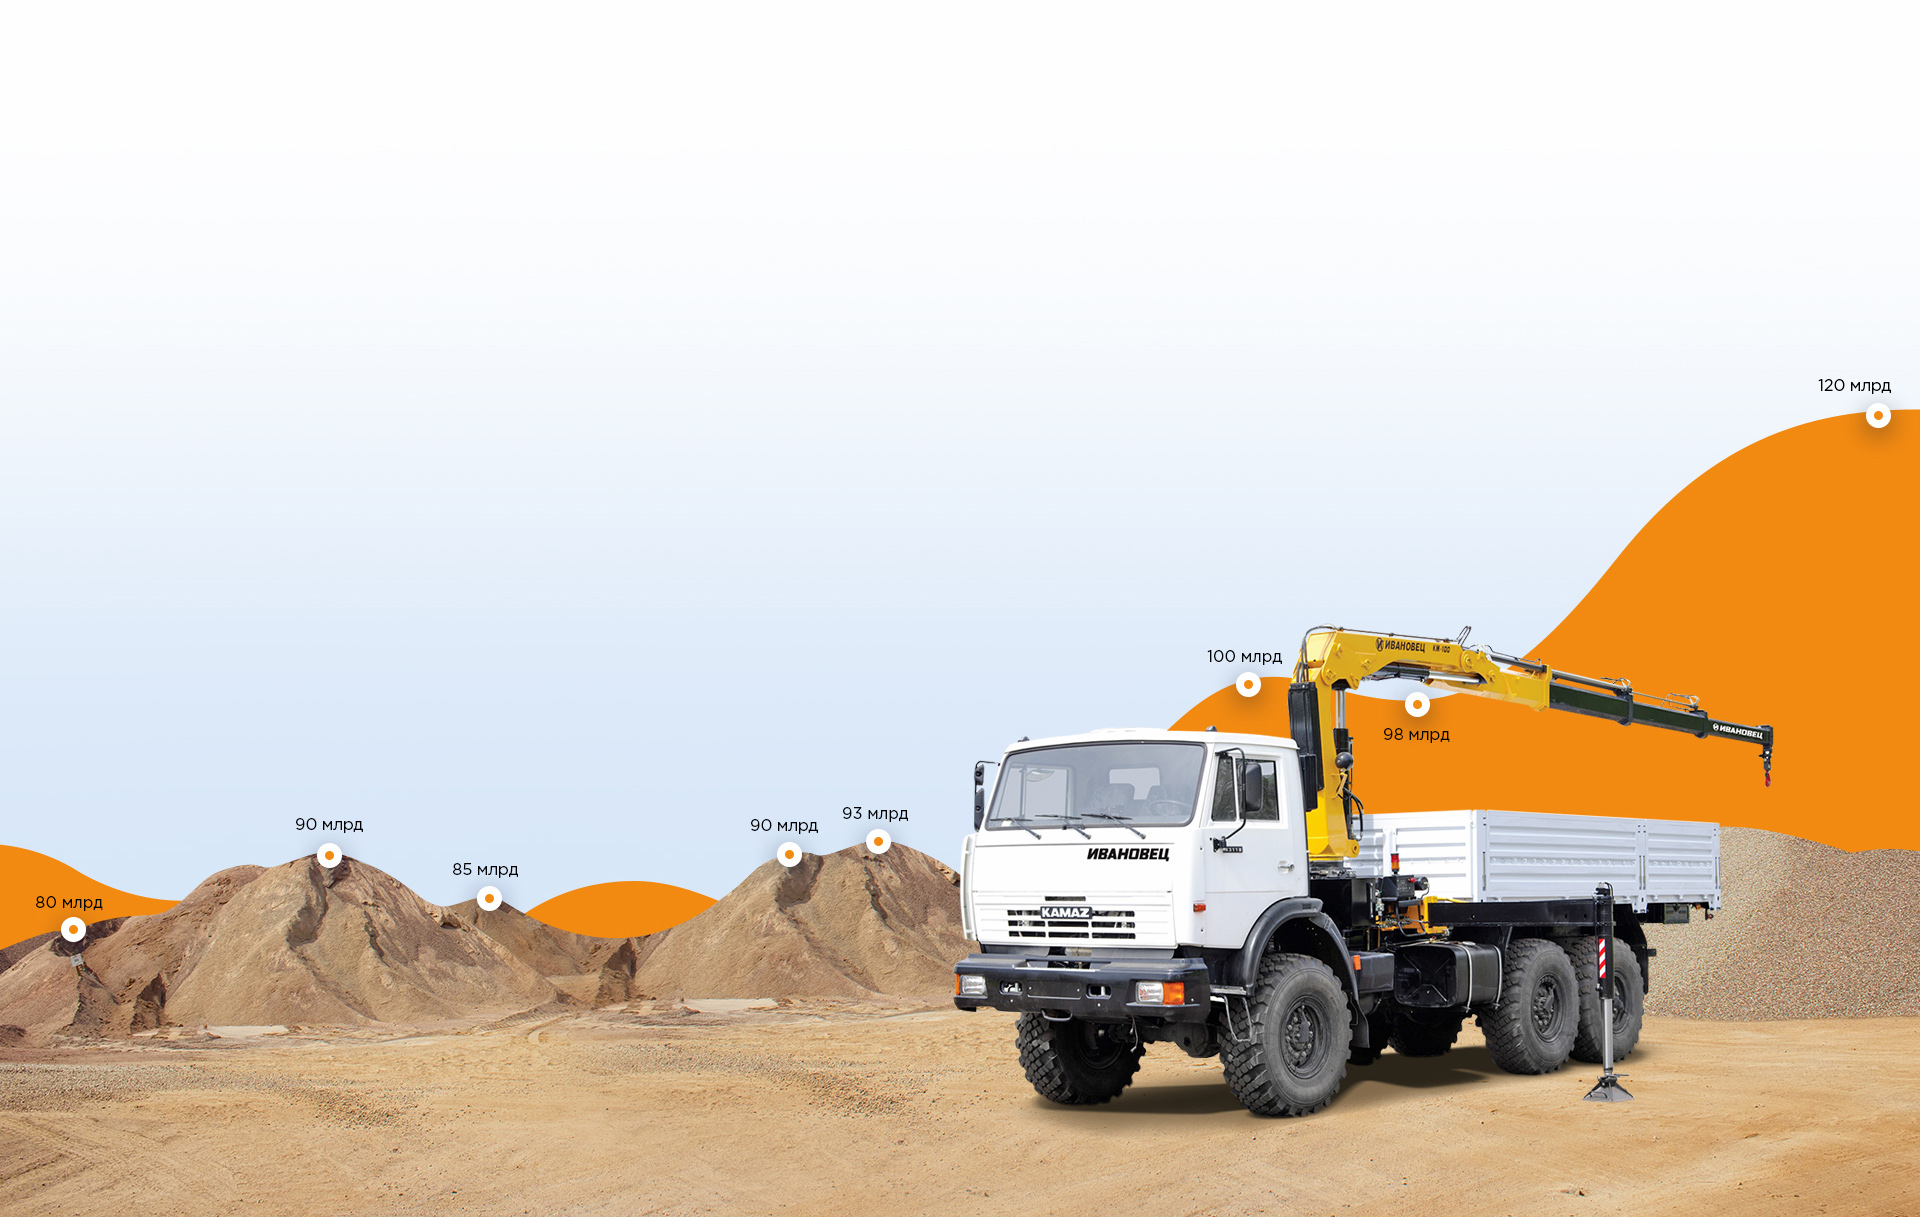
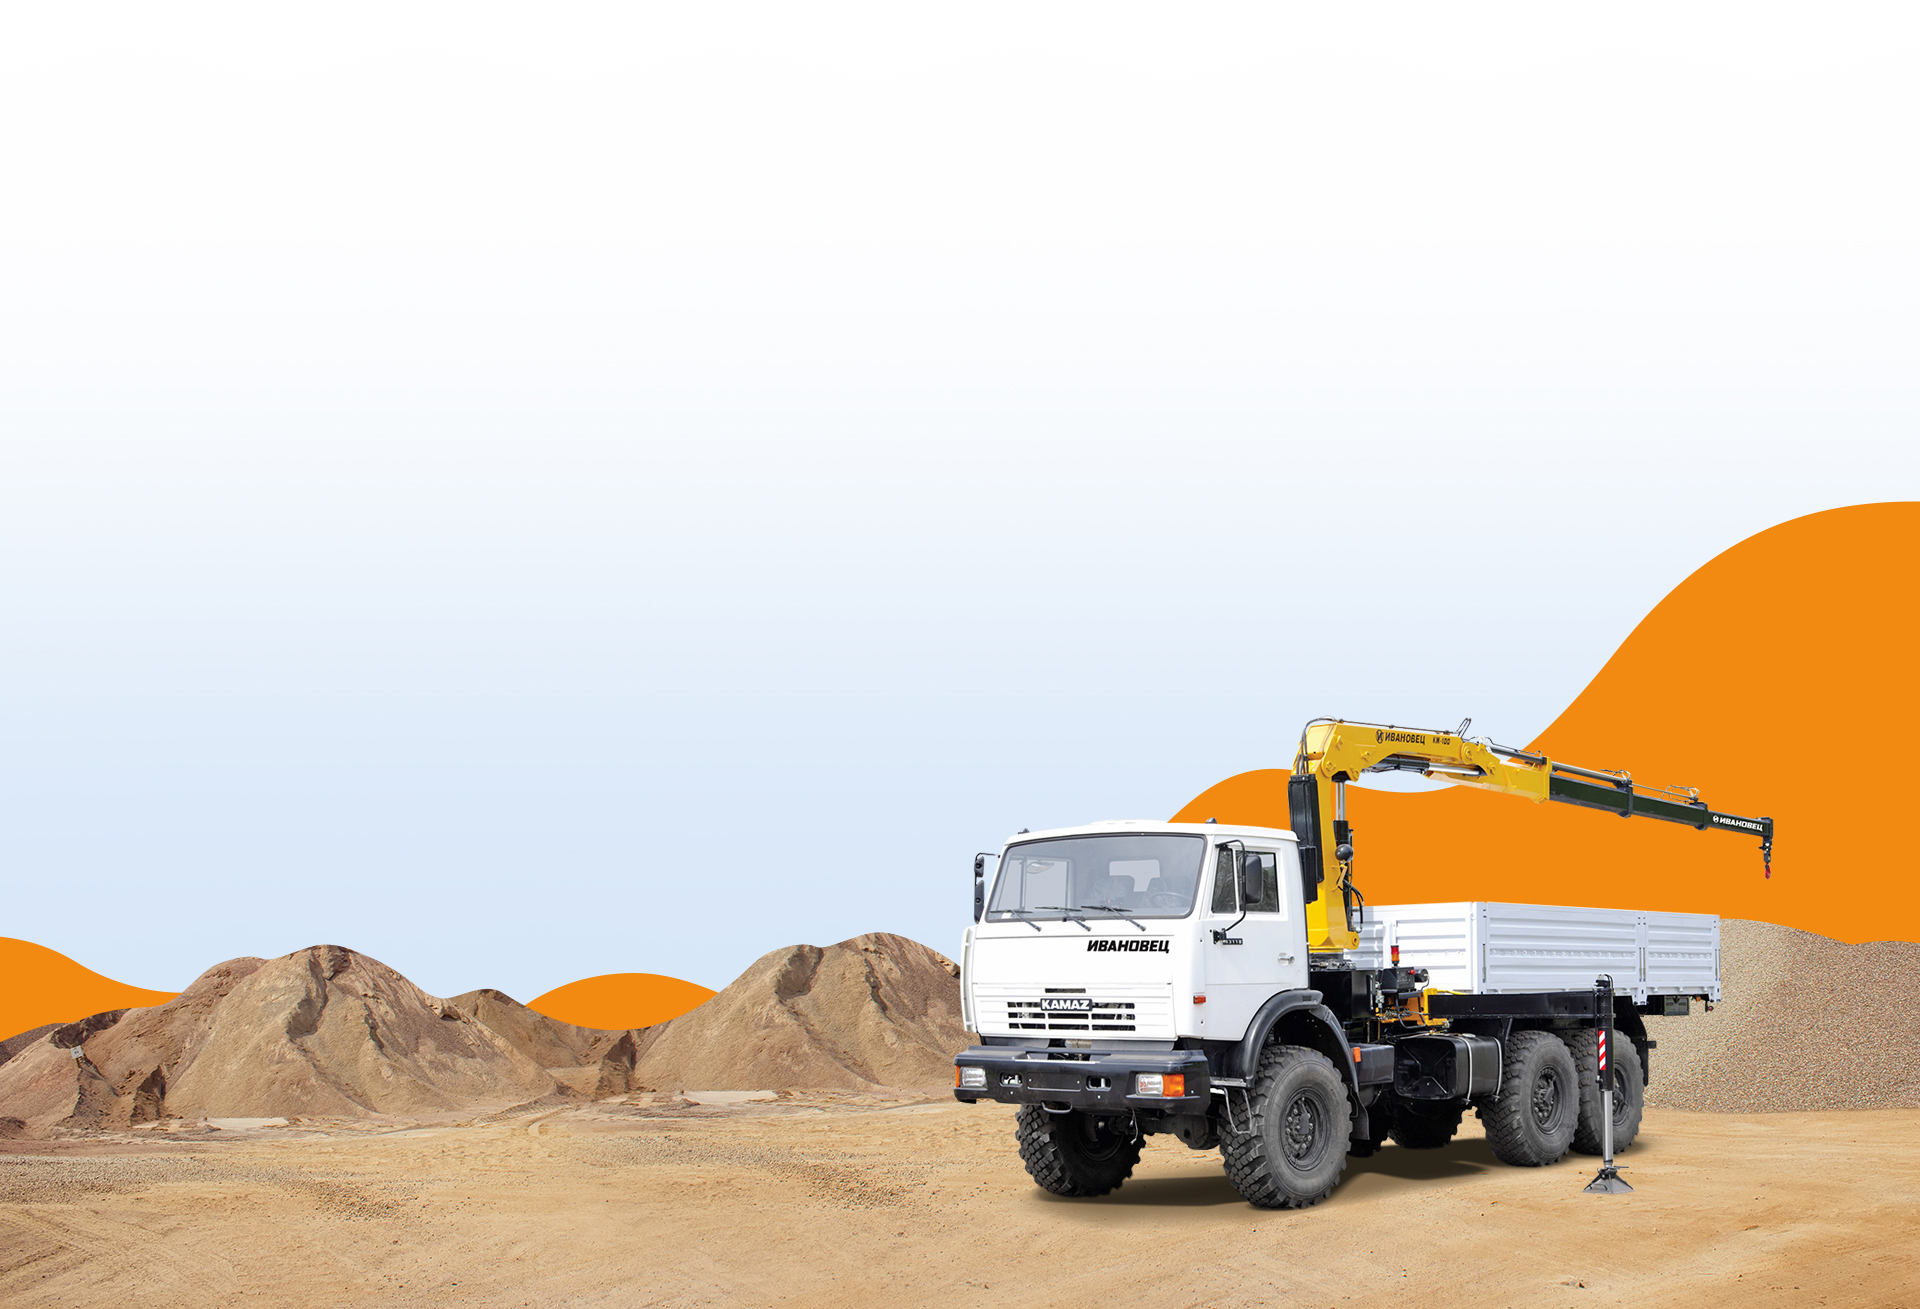
Add animation

diff --git a/src/scss/components/_stats.scss b/src/scss/components/_stats.scss
@@ -6,29 +6,28 @@
   padding-top: 95px;
   padding-bottom: 400px;
   position: relative;
+  position: relative;
 
-  @media (max-width: 950px) {
-    background-position-x: -500px;
+  @media (max-width: 1020px) {
+    background-size: 1265px;
   }
 
   @media (max-width: 880px) {
-    background-position-x: -370px;
-    min-height: 1428px;
+    // background-position-x: -370px;
+    // min-height: 1428px;
   }
 
   @media (max-width: 750px) {
-    background-position-x: -370px;
-    min-height: 1530px;
+    // background-position-x: -370px;
+    // min-height: 1530px;
   }
 
   @media (max-width: 650px) {
     min-height: auto;
     padding-top: 30px;
-    background-position-x: -197px;
-    background-size: 849px;
-    padding-bottom: 300px;
+    background-size: 653px;
+    padding-bottom: 240px;
     background-color: rgb(255, 255, 255);
-    background-image: url('/src/img/bgs/stats-bg.jpg'),
   }
 }
 
@@ -177,5 +176,144 @@
 
   @media (max-width: 650px) {
     display: none;
+  }
+}
+
+.stats__icon-wrapper {
+  position: absolute;
+  width: 1920px;
+  bottom: 0px;
+  height: 0;
+  @include x-align;
+}
+
+.stats__icon-box {
+  position: absolute;
+
+  @media (max-width: 650px) {
+    transform: scale(0.6);
+  }
+
+  &:nth-child(1) {
+    left: 36px;
+    bottom: 275px;
+  }
+  &:nth-child(2) {
+    left: 296px;
+    bottom: 349px;
+
+    @media (max-width: 1020px) {
+      left: 510px;
+      bottom: 227px;
+    }
+
+    @media (max-width: 901px) {
+      display: none;
+    }
+  }
+  &:nth-child(3) {
+    left: 453px;
+    bottom: 306px;
+
+    @media (max-width: 1020px) {
+      left: 617px;
+      bottom: 202px;
+    }
+
+    @media (max-width: 650px) {
+      left: 772px;
+      bottom: 92px;
+    }
+  }
+  &:nth-child(4) {
+    left: 751px;
+    bottom: 350px;
+
+    @media (max-width: 1020px) {
+      left: 808px;
+      bottom: 225px;
+    }
+
+    @media (max-width: 650px) {
+      left: 857px;
+      bottom: 101px;
+    }
+  }
+  &:nth-child(5) {
+    left: 843px;
+    bottom: 363px;
+
+    @media (max-width: 1020px) {
+      left: 881px;
+      bottom: 241px;
+    }
+
+    @media (max-width: 650px) {
+      left: 904px;
+      bottom: 115px;
+    }
+  }
+  &:nth-child(6) {
+    left: 1207px;
+    bottom: 524px;
+
+    @media (max-width: 1020px) {
+      left: 1108px;
+      bottom: 340px;
+    }
+
+    @media (max-width: 650px) {
+      left: 1011px;
+      bottom: 165px;
+    }
+  }
+  &:nth-child(7) {
+    left: 1384px;
+    bottom: 478px;
+
+    @media (max-width: 1020px) {
+      left: 1222px;
+      bottom: 302px;
+    }
+
+    @media (max-width: 650px) {
+      left: 1082px;
+      bottom: 145px;
+    }
+
+    p {
+      margin-bottom: 0;
+    }
+
+    img {
+      margin-bottom: 4px;
+    }
+  }
+  &:nth-child(8) {
+    left: 1818px;
+    bottom: 791px;
+  }
+}
+
+.stats__icon-text {
+  margin-bottom: 4px;
+  font-size: 16px;
+  opacity: 0;
+  transition: opacity 0.4s;
+
+  &_shown {
+    opacity: 1;
+  }
+}
+
+.stats__icon-img {
+  display: block;
+  margin-left: auto;
+  margin-right: auto;
+  transform: scale(0);
+  transition: transform 0.4s;
+
+  &_shown {
+    transform: scale(1);
   }
 }

diff --git a/src/index.html b/src/index.html
@@ -287,6 +287,40 @@
       </section>
 
       <section class="stats">
+        <div class="stats__icon-wrapper">
+          <div class="stats__icon-box">
+            <p class="stats__icon-text">80 млрд</p>
+            <img src="./img/icons/stats-icon.png" class="stats__icon-img" />
+          </div>
+          <div class="stats__icon-box">
+            <p class="stats__icon-text">90 млрд</p>
+            <img src="./img/icons/stats-icon.png" class="stats__icon-img" />
+          </div>
+          <div class="stats__icon-box">
+            <p class="stats__icon-text">85 млрд</p>
+            <img src="./img/icons/stats-icon.png" class="stats__icon-img" />
+          </div>
+          <div class="stats__icon-box">
+            <p class="stats__icon-text">90 млрд</p>
+            <img src="./img/icons/stats-icon.png" class="stats__icon-img" />
+          </div>
+          <div class="stats__icon-box">
+            <p class="stats__icon-text">93 млрд</p>
+            <img src="./img/icons/stats-icon.png" class="stats__icon-img" />
+          </div>
+          <div class="stats__icon-box">
+            <p class="stats__icon-text">100 млрд</p>
+            <img src="./img/icons/stats-icon.png" class="stats__icon-img" />
+          </div>
+          <div class="stats__icon-box">
+            <img src="./img/icons/stats-icon.png" class="stats__icon-img" />
+            <p class="stats__icon-text">98 млрд</p>
+          </div>
+          <div class="stats__icon-box">
+            <p class="stats__icon-text">120 млрд</p>
+            <img src="./img/icons/stats-icon.png" class="stats__icon-img" />
+          </div>
+        </div>
         <div class="container">
           <h2 class="stats__title">
             Начните бизнес на рынке спецтехники,
@@ -1293,8 +1327,9 @@
             новых продуктах и услугах, специальных предложениях и различных
             событиях. Пользователь всегда может отказаться от получения
             информационных сообщений, направив Оператору письмо на адрес
-            электронной почты с доменом ooo.sts-yugra@mail.ru с пометкой «Отказ от
-            уведомлений о новых продуктах и услугах и специальных предложениях».
+            электронной почты с доменом ooo.sts-yugra@mail.ru с пометкой «Отказ
+            от уведомлений о новых продуктах и услугах и специальных
+            предложениях».
           </li>
           <li class="priv-policy__item">
             3. Обезличенные данные Пользователей, собираемые с помощью сервисов

diff --git a/src/ts/animation.ts b/src/ts/animation.ts
@@ -1,0 +1,32 @@
+export {};
+
+const sectionEl = document.querySelector('.stats');
+const iconImgElList = document.querySelectorAll('.stats__icon-img');
+const iconTextElList = document.querySelectorAll('.stats__icon-text');
+
+window.addEventListener('scroll', () => {
+  let breakpoint = 0;
+  const screenWidth = document.documentElement.scrollWidth;
+
+  if (screenWidth <= 650) {
+    breakpoint = -531;
+  }
+  if (screenWidth > 650 && screenWidth <= 800) {
+    breakpoint = -240;
+  }
+  if (screenWidth > 800 && screenWidth < 1920) {
+    breakpoint = -327;
+  }
+  if (sectionEl && sectionEl.getBoundingClientRect().top < breakpoint) {
+    iconImgElList.forEach((iconImgEl, i) => {
+      setTimeout(() => {
+        iconImgEl.classList.add('stats__icon-img_shown');
+      }, i * 250);
+    });
+    iconTextElList.forEach((iconTextEl, i) => {
+      setTimeout(() => {
+        iconTextEl.classList.add('stats__icon-text_shown');
+      }, i * 250);
+    });
+  }
+});

diff --git a/src/index.ts b/src/index.ts
@@ -5,3 +5,4 @@ import './ts/calc';
 import './ts/setup-forms';
 import './ts/f5leads-init';
 import './ts/f5leads';
+import './ts/animation';
